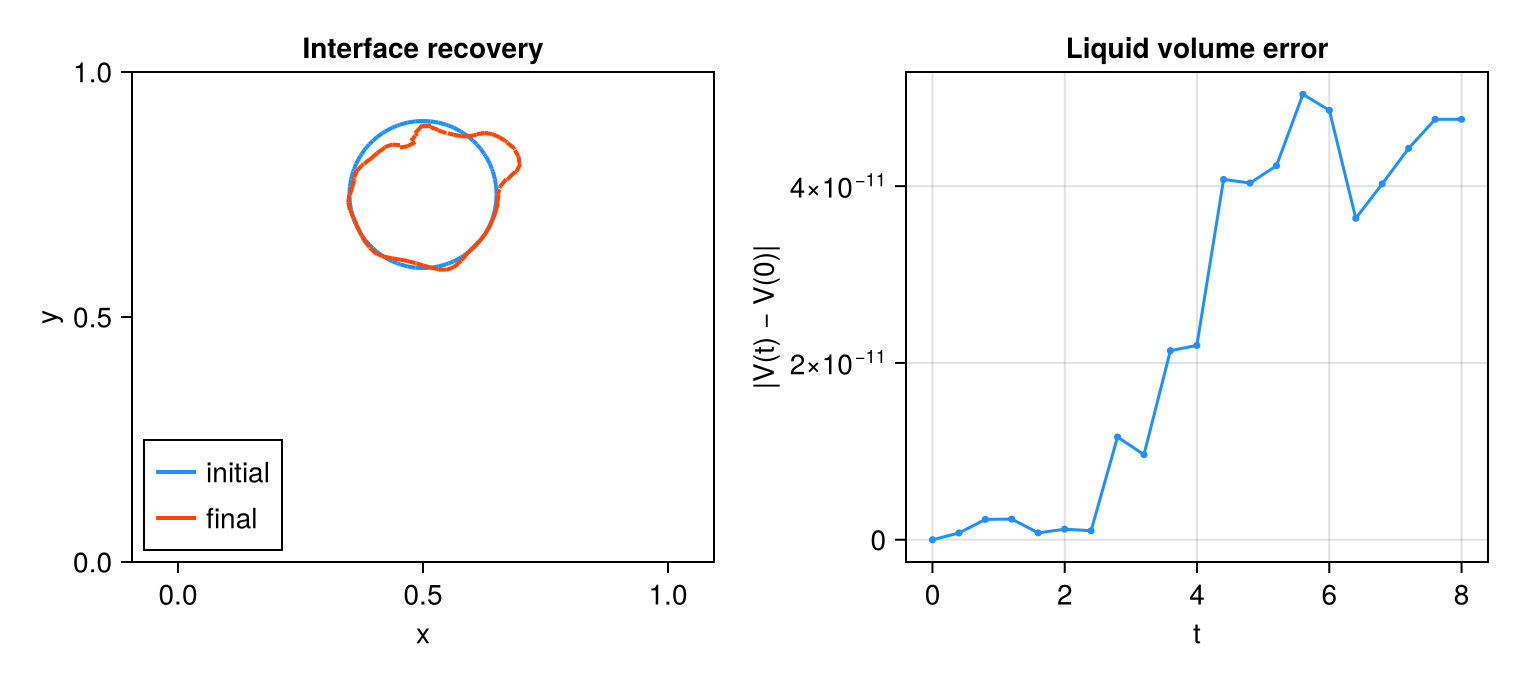
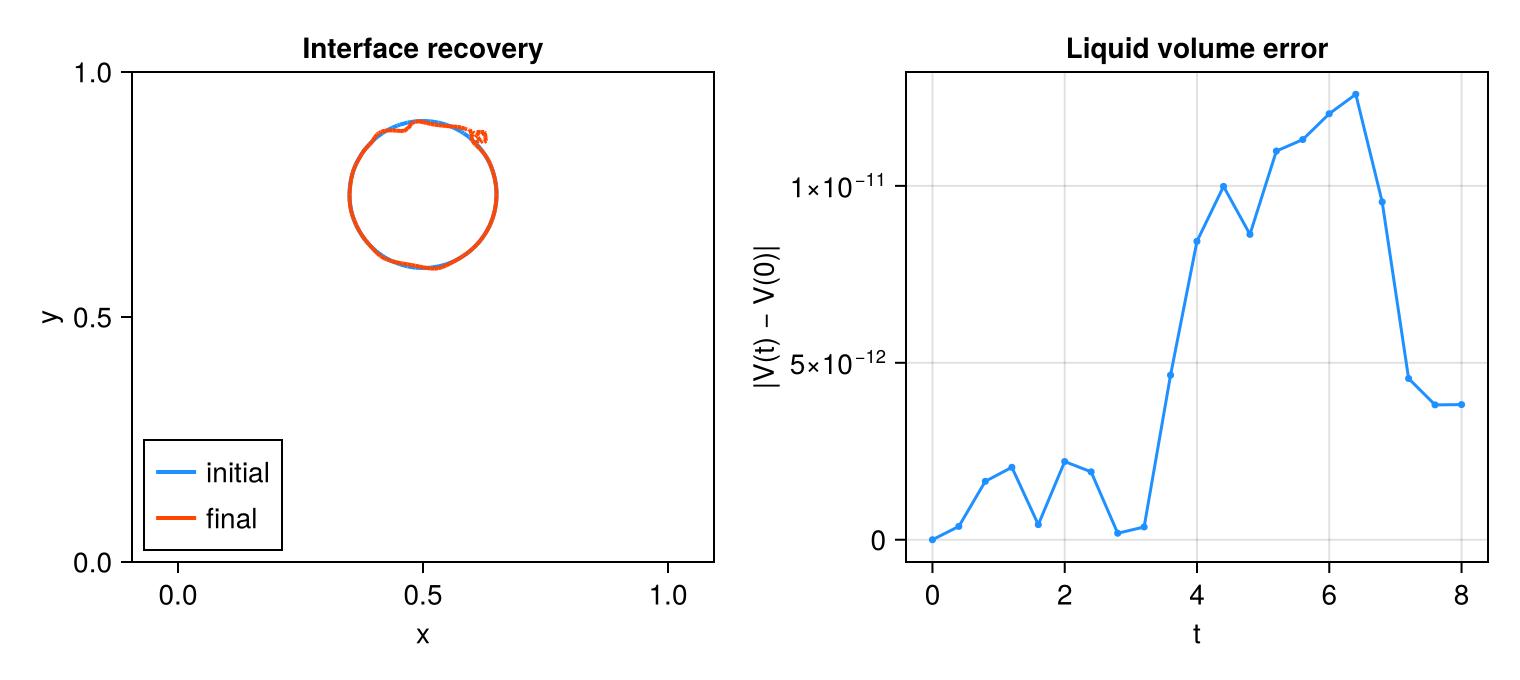
Update vortex reversal gallery with passive dye
- Transport and visualize a liquid scalar with AMR blocks and report recovery and conservation.
- Increase example resolutions and regenerate the documentation assets.

diff --git a/examples/05_vortex_reverse/README.md b/examples/05_vortex_reverse/README.md
@@ -10,9 +10,9 @@ A prescribed reversing vortex stretches a circular liquid patch and then returns
 | --- | --- |
 | **Physics** | Standalone liquid volume-of-fluid (VOF) transport in the periodic unit square; initial radius `0.15`, centre `(0.5, 0.75)`. The carrier velocity is prescribed, not solved; density, viscosity, gravity and surface tension are not parameters of this problem. |
 | **Algorithms** | Weymouth–Yue geometric VOF advection with alternating sweep order and CFL `0.4`; `:lhf` PLIC reconstruction with WY fallback. Interface and curvature refinement use minimum level 1 (clamped to `max_level`) and 8 cells per radius, with adaptation every 5 steps and coarsening delay 2; there is no pressure or diffusion solver. |
-| **Worth varying** | `max_level=5` controls the finest mesh; `final_time=8.0` changes both the run duration and the reversal period; `reconstruction_method=:lhf` selects the PLIC normal method (`:lhf_ghf` and `:wy` are also supported). |
-| **Validated against** | The exact reversing flow returns to its initial shape and conserves liquid volume. At docs size `abs(V(T)-V(0)) = 4.75607e-11`; a geometric shape-error norm was not measured. |
-| **Cost** | The default level-5 run is unmeasured. Docs: level 3, `T=8`, 1661 steps, 64 regrids and 1792 final cells; setup and simulation took 104.0 s and the whole figure script, with its 81-keyframe GIF, 146.4 s on one thread, including first-use compilation and rendering, measured while other jobs shared the machine. |
+| **Worth varying** | `max_level=6` controls the finest mesh; `final_time=8.0` changes both the run duration and the reversal period; `reconstruction_method=:lhf` selects the PLIC normal method (`:lhf_ghf` and `:wy` are also supported). |
+| **Validated against** | The reversing flow returns the interface and passive liquid scalar toward their initial states and conserves their contents. Docs: final volume error `3.82e-12`, scalar-content error `1.56e-12`, scalar recovery L1 error `0.03346`; a geometric shape-error norm was not measured. |
+| **Cost** | The default level-6 run is unmeasured. Docs: level 4, `T=8`, 3311 steps, 457 regrids and 5440 final cells; setup and simulation took 393.4 s on one thread after a level-3 run, while other jobs shared the machine. |
 
 Gallery timings: Julia 1.12.7, one Julia thread and one BLAS thread, AMD Ryzen 9 5950X; package loading is excluded.
 
@@ -33,7 +33,7 @@ From the repository root, in a Julia session started with `--project=examples`:
 
 ```julia
 include("examples/05_vortex_reverse/vortex_reverse.jl")
-run = run_example(max_level = 3, final_time = 8.0)
+run = run_example(max_level = 4, final_time = 8.0)
 @show run.result
 ```
 
@@ -47,7 +47,7 @@ julia --project=examples -e 'include("examples/05_vortex_reverse/make_figures.jl
 Append `--studio` to the example command to follow the run in a browser;
 press Ctrl+C to close Studio after the run.
 
-`make_figures(size=:default)` uses the example's level-5 default. This example
+`make_figures(size=:default)` uses the example's level-6 default; the docs use level 4. This example
 owns its VOF stepping loop rather than a `FlowSimulation` and records keyframes
 in `run.recorder` (accessible via `snapshot_store(run.recorder)`) for the figure
 script. The recorder's `step_log` also identifies steps that changed the mesh.
@@ -60,9 +60,28 @@ The hero shows liquid fraction and reconstructed interface at the initial state,
 
 ![Volume fraction during the reversing vortex flow](assets/reversal.gif)
 
+![Liquid scalar snapshots with interface and AMR blocks](assets/scalar_snapshots.png)
+
+![Liquid scalar during the reversing vortex flow](assets/scalar_reversal.gif)
+
 The GIF has 81 output frames, one per keyframe, on a uniform simulation-time grid with spacing `0.1` over the whole run; each keyframe is the completed step nearest its requested time. The circle is stretched into a spiral until `T/2` and returns as the flow reverses.
 
-The overlay compares the retained initial and final PLIC segments; the volume curve integrates the stored fractions over actual AMR cell areas. The final absolute volume error is `4.75607e-11`; this is not a measurement of geometric shape recovery.
+The overlay compares the retained initial and final PLIC segments; the volume curve integrates the stored fractions over actual AMR cell areas. The final absolute volume error is `3.82e-12`; this is not a measurement of geometric shape recovery.
+
+The passive liquid scalar starts as `1 + 0.8sin(4πx)`, with zero gas
+value, and uses the same WY volume fluxes as the interface; it is transferred
+conservatively when the mesh changes. Phase concentrations are upwinded,
+which is strongly diffusive here: the final dye is nearly uniform rather than
+recovering the initial gradient. Scalar images use PLIC-split mixed cells.
+The scalar recovery norm is the integral
+of `abs(f(T)s(T) - f₀s₀)`, evaluated against the initial circle and profile
+reinitialised on the final mesh. It is `0.04034` at level 3 and `0.03346`
+at level 4, an observed two-level rate of about 0.27, not an established
+asymptotic convergence order.
+Scalar content is evaluated at 21 retained keyframes as `∫ f s`; its maximum
+absolute drift is `7.61e-12` and its final drift is `1.56e-12`. The noticeably
+diffused final pattern shows that conservation alone does not imply pointwise
+recovery.
 
 ## Variations
 

diff --git a/CHANGELOG.md b/CHANGELOG.md
@@ -2,6 +2,8 @@
 
 ## Unreleased
 
+- Gallery example 05 now transports a passive liquid scalar with the WY fluxes, reports scalar recovery and conservation, and displays the scalar and AMR blocks; its default and documentation resolutions are one level finer.
+
 - **Behaviour:** Automatic `simulate!` stepping uses a hysteresis controller instead of retaining the smallest step forever: it shrinks to `0.8` times the current bound, holds within `[0.5, 1]` times the bound, and grows by at most `1.2` per step when below that band. Explicit `dt` remains fixed. A proposal that already reaches the target in time arithmetic is retained unchanged, preserving aligned chunk resumption. Single-phase shifted viscous hierarchies refresh when the shift changes; two-phase variable-viscosity hierarchies refresh each step as their coefficients evolve. The DR 1 two-velocity capillary-wave endpoint rate gate is 1.6 instead of 1.8, owner-approved: the controller gives 1.66 (errors 0.0468/0.00563/0.00468 at n = 8/16/32), where the old 1.98 relied on time and space error cancelling at the smaller automatic steps; with a fixed small step there is no spatial asymptote on these grids (theory errors 0.00699/0.0140/0.00761/0.00171 at n = 8/16/32/64 and dt = 5.51e-4, time-L2 self-differences to n = 64 of rate -0.53 and 1.06).
   Measured effect on the MimeticProjection drop impact (n = 128, member 1, main at `38366950`): 62274 steps and 7698.5 s → 479 steps and 61.0 s, because a transient spike on a remnant value no longer fixes the step for the rest of the run; CMDGFM 251 → 238 steps. Against fixed-CFL 0.05 references the controller is as accurate as or more accurate than the old policy on resolved quantities (CMDGFM n = 128 resolved gas maximum error 0.722 → 0.276), and no fixed-CFL run with at most its step count is clearly more accurate.
 - The example gallery is regenerated for the automatic-step controller: every automatic-step number and asset of examples 01, 02, 03, 04, 06, 07, 08, 09, 10 and 11 comes from a fresh run, so the pages' rows and committed assets match this branch (05 sets its own `dt`, 12 does not step in time, and 02's docs case is the fixed step). Bound-limited runs take 1/0.8 times the steps (01 169 → 211, 02 1900 → 2206, 06 2048 → 2560, 07 859 → 1074, 08 1299 → 1624, docs 03 1744 → 2069), while runs whose bound grows take fewer (04 333117 → 22673, 11 18236 → 5098, default 03 18213 → 7690, 10 2482 → 2165, 09 1221 → 768), with a different AMR path in the adaptive cases. Numerically visible: Taylor–Green energy error at `t=5` 0.363876 → 0.292715 (a 20 % smaller step, an improvement); decaying-turbulence projected energy 341.261 → 355.295 and final divergence norm 1.08446e-6 → 3.72333e-6; cylinder `t=30–50` mean pressure drag 1.16600 → 1.16774 with `St` 0.2052 → 0.20428 (level-3 reference 1.140/0.2030, legacy `WallDistanceClosure()` 1.06773/0.20822); Stokes-3 two-period profile RMS 0.0436195 → 0.0502422 and maximum 0.0880803 → 0.113808 (a broken wave, not a convergence quantity); sloped sessile final kinetic energy 0.0174974 → 0.00884495 with 11 mesh updates instead of 1; LGPI volume change −3.66e-9 → −7.02e-10 and vorticity display limit 448.19 → 410.577. 09's GIF is refreshed from 41 to the 81 frames its script requests; 10's `wave.gif` is the raw export (0.61 MB); 11's `impact.gif` keeps its documented ImageMagick optimisation (2.30 MB → 0.73 MB).

diff --git a/examples/README.md b/examples/README.md
@@ -11,7 +11,7 @@ rather than a time-dependent flow.
 | 02 | [Lid-driven cavity](02_lid_driven_cavity/) | Moving-wall recirculation | Single phase | Level 1, T=15; 2206 automatic steps, 1.90 s warm |
 | 03 | [Decaying turbulence](03_decaying_turbulence/) | Random vortices and adaptive refinement | Single phase | Level 4, T=10; 7690 steps, 95.04 s |
 | 04 | [Cylinder flow](04_cylinder_flow/) | Cut-cell wake and drag | Single phase | Level 3, T=40; unmeasured (gallery level 4, T=50: 22673 steps, 1171 s) |
-| 05 | [Vortex reversal](05_vortex_reverse/) | Geometric VOF transport | Prescribed velocity | Level 5, T=8; unmeasured |
+| 05 | [Vortex reversal](05_vortex_reverse/) | Geometric VOF and passive scalar transport | Prescribed velocity | Level 6, T=8; unmeasured |
 | 06 | [Capillary wave](06_capillary_wave/) | Viscous wave damping | One velocity | Level 4, one period; 74.90 s, two velocities 111.89 s |
 | 07 | [Interfacial instability](07_interfacial_instability/) | Kelvin–Helmholtz and Rayleigh–Taylor growth | Two velocity | Level 4, until doubled amplitude; 70.39 s, one velocity 25.18 s |
 | 08 | [Sessile droplet](08_sessile_droplet/) | Contact-angle relaxation | One velocity | Level 3, eight capillary times; 40.09 s |
